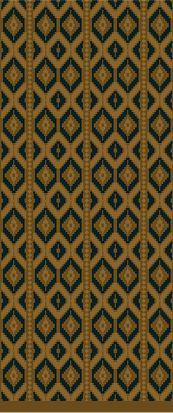
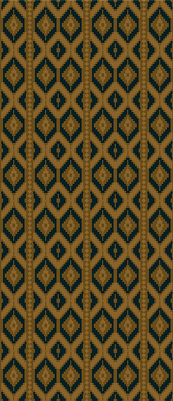
feat: implement special order modal component and add background image asset

diff --git a/src/app/shared/components/special-order-modal/special-order-modal.component.ts b/src/app/shared/components/special-order-modal/special-order-modal.component.ts
@@ -53,8 +53,8 @@ export class SpecialOrderModalComponent implements OnInit, OnChanges {
   private _authService = inject(AuthService);
   private _translateService = inject(TranslateService);
 
-  @HostListener('document:keydown.escape', ['$event'])
-  onEscapeKey(event: KeyboardEvent): void {
+  @HostListener('document:keydown.escape')
+  onEscapeKey(): void {
     if (this.isOpen && !this.isSubmitting) {
       this.closeModal();
     }
